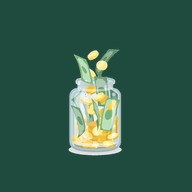
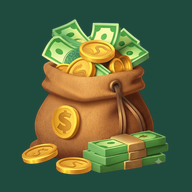
Add files via upload

diff --git a/oshchadna-knyzhka.html b/oshchadna-knyzhka.html
@@ -98,6 +98,12 @@ const fmtDateTime = (d) => {
   return `${pad(d.getDate())}.${pad(d.getMonth() + 1)}.${d.getFullYear()} ${pad(d.getHours())}:${pad(d.getMinutes())}:${pad(d.getSeconds())}`;
 };
 
+function todayISO() {
+  const d = new Date();
+  const pad = (n) => String(n).padStart(2, "0");
+  return `${d.getFullYear()}-${pad(d.getMonth() + 1)}-${pad(d.getDate())}`;
+}
+
 function uid() {
   return Date.now().toString(36) + Math.random().toString(36).slice(2, 7);
 }
@@ -781,7 +787,7 @@ function App() {
   }, [entries]);
 
   function openAdd() {
-    setEditing({ id: null, date: "", desc: "", usd: "", eur: "", rate: "", uah: "" });
+    setEditing({ id: null, date: todayISO(), desc: "", usd: "", eur: "", rate: "", uah: "" });
     setFormOpen(true);
   }
   function openEdit(entry) {
@@ -1237,7 +1243,6 @@ function EntryForm({ initial, onCancel, onSave, descOptions }) {
                 onChange={set("desc")}
                 onFocus={() => setShowSug(true)}
                 onBlur={() => setTimeout(() => setShowSug(false), 150)}
-                placeholder="напр. ЗП"
                 autoComplete="off"
               />
               {showSug && suggestions.length > 0 && (
@@ -1260,12 +1265,16 @@ function EntryForm({ initial, onCancel, onSave, descOptions }) {
             </div>
           </Field>
           <div style={{ display: "grid", gridTemplateColumns: "1fr 1fr", gap: 10 }}>
-            <Field label="$ (USD)"><input type="number" value={form.usd} onChange={set("usd")} /></Field>
-            <Field label="€ (EUR)"><input type="number" value={form.eur} onChange={set("eur")} /></Field>
+            <Field label="$ (USD)">
+              <AmountField value={form.usd} onChange={(v) => setForm((f) => ({ ...f, usd: v }))} />
+            </Field>
+            <Field label="€ (EUR)">
+              <AmountField value={form.eur} onChange={(v) => setForm((f) => ({ ...f, eur: v }))} />
+            </Field>
           </div>
           <div style={{ display: "grid", gridTemplateColumns: "1fr 1fr", gap: 10 }}>
             <Field label="Курс купівлі"><input type="number" step="0.01" value={form.rate} onChange={set("rate")} /></Field>
-            <Field label="Еквівалент, ₴ (авто, якщо порожньо)"><input type="number" value={form.uah} onChange={set("uah")} /></Field>
+            <Field label="Еквівалент, ₴"><input type="number" value={form.uah} onChange={set("uah")} /></Field>
           </div>
         </div>
 
@@ -1290,12 +1299,76 @@ function Field({ label, children }) {
   );
 }
 
+// --- поле суми з розділенням тисяч прямо під час введення ---
+function isSignificantChar(ch) {
+  return /[0-9\-.,]/.test(ch);
+}
+function cleanAmount(s) {
+  let str = (s || "").replace(/[\s\u00A0]/g, "");
+  const neg = str.startsWith("-");
+  str = str.replace(/-/g, "").replace(",", ".").replace(/[^\d.]/g, "");
+  const parts = str.split(".");
+  if (parts.length > 2) str = parts[0] + "." + parts.slice(1).join("");
+  return (neg ? "-" : "") + str;
+}
+function formatAmount(raw) {
+  if (raw === "" || raw === null || raw === undefined) return "";
+  if (raw === "-") return "-";
+  const endsWithDot = raw.endsWith(".");
+  const num = Number(raw);
+  if (isNaN(num)) return raw;
+  let formatted = new Intl.NumberFormat("uk-UA", { maximumFractionDigits: 2 }).format(num);
+  if (endsWithDot) formatted += ",";
+  return formatted;
+}
+function countSignificant(s) {
+  let n = 0;
+  for (const ch of s) if (isSignificantChar(ch)) n++;
+  return n;
+}
+function posForSignificant(s, target) {
+  if (target <= 0) return 0;
+  let n = 0;
+  for (let i = 0; i < s.length; i++) {
+    if (isSignificantChar(s[i])) {
+      n++;
+      if (n === target) return i + 1;
+    }
+  }
+  return s.length;
+}
+function AmountField({ value, onChange }) {
+  const ref = useRef(null);
+  function handleChange(ev) {
+    const input = ev.target;
+    const rawInput = input.value;
+    const cursorPos = input.selectionStart ?? rawInput.length;
+    const sigBefore = countSignificant(rawInput.slice(0, cursorPos));
+    const cleaned = cleanAmount(rawInput);
+    onChange(cleaned);
+    requestAnimationFrame(() => {
+      if (!ref.current) return;
+      const formatted = formatAmount(cleaned);
+      const pos = posForSignificant(formatted, sigBefore);
+      try { ref.current.setSelectionRange(pos, pos); } catch (e) {}
+    });
+  }
+  return (
+    <input
+      ref={ref}
+      type="text"
+      inputMode="decimal"
+      value={formatAmount(value)}
+      onChange={handleChange}
+    />
+  );
+}
+
 const root = ReactDOM.createRoot(document.getElementById("root"));
 root.render(<App />);
 </script>
 
 <script>
-  // реєстрація service worker — щоб застосунок можна було встановити на Android і він працював офлайн
   if ("serviceWorker" in navigator) {
     window.addEventListener("load", () => {
       navigator.serviceWorker.register("sw.js").catch((e) => console.warn("SW registration failed:", e));

diff --git a/index.html b/index.html
@@ -3,7 +3,7 @@
 <head>
 <meta charset="UTF-8" />
 <meta http-equiv="refresh" content="0; url=oshchadna-knyzhka.html" />
-<title>Ощадна книжка</title>
+<title>Мої заощадження</title>
 </head>
 <body>
 <p>Завантаження… якщо сторінка не відкрилась автоматично, <a href="oshchadna-knyzhka.html">натисни тут</a>.</p>

diff --git a/sw.js b/sw.js
@@ -1,4 +1,4 @@
-const CACHE_NAME = "oshchadna-knyzhka-v3";
+const CACHE_NAME = "oshchadna-knyzhka-v6";
 const ASSETS = [
   "./oshchadna-knyzhka.html",
   "./manifest.json",
